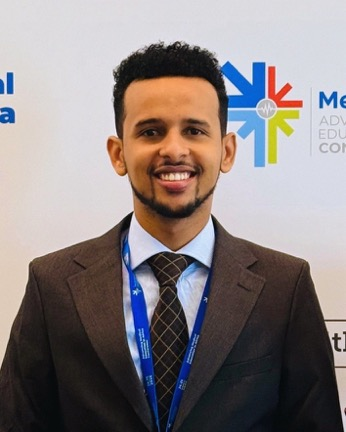
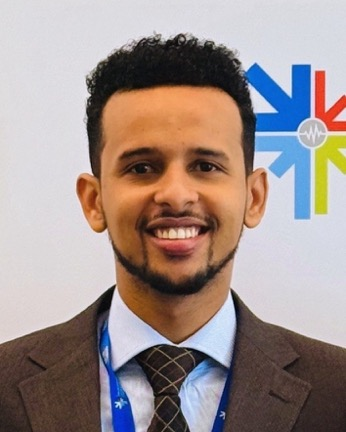
Board cards: wider spacing, brand blue roles, tighter photo crop

diff --git a/css/styles.css b/css/styles.css
@@ -522,7 +522,7 @@ tr:last-child td { border-bottom: 0; }
 .timeline li { display: grid; grid-template-columns: 72px minmax(0,1fr); gap: 20px; margin: 0; padding: 16px 0; border-top: 1px solid var(--line); }
 .timeline__year { font-weight: 600; color: var(--ink); font-variant-numeric: tabular-nums; }
 
-.people { display: grid; gap: 28px 20px; grid-template-columns: repeat(auto-fill, minmax(200px, 1fr)); margin-bottom: 1.2em; }
+.people { display: grid; gap: 36px clamp(28px, 4vw, 48px); grid-template-columns: repeat(auto-fill, minmax(240px, 290px)); margin-bottom: 1.2em; }
 .person { display: flex; flex-direction: column; }
 .person__photo { aspect-ratio: 4 / 5; border-radius: var(--radius); background: var(--surface); display: flex; align-items: center; justify-content: center; margin-bottom: 16px; overflow: hidden; color: var(--line-strong); }
 .person__photo svg { width: 40%; height: 40%; }
@@ -842,7 +842,7 @@ figure.portrait { margin: 0; }
 .cv__photo { margin: 0 0 24px; aspect-ratio: 4 / 5; border-radius: 24px; overflow: hidden; border: 1px solid var(--line); background: #fff; }
 .cv__photo img { width: 100%; height: 100%; object-fit: cover; object-position: center top; }
 .cv__name { font-size: clamp(1.8rem, 1.4rem + 1.2vw, 2.4rem); letter-spacing: -0.04em; line-height: 1.05; margin: 0 0 10px; }
-.cv__role { color: var(--red-600); font-weight: 600; margin: 0 0 6px; }
+.cv__role { color: var(--blue-600); font-weight: 600; margin: 0 0 6px; }
 .cv__org { color: var(--text); margin: 0 0 20px; line-height: 1.5; }
 .cv__links { list-style: none; margin: 0; padding: 18px 0 0; border-top: 1px solid var(--line); display: flex; gap: 24px; }
 .cv__links li { margin: 0; }
@@ -880,7 +880,7 @@ figure.portrait { margin: 0; }
 
 /* Board cards: tight name, role and link */
 .person__name { margin: 0; font-size: 1.15rem; letter-spacing: -0.015em; }
-.person__role { margin: 2px 0 0; font-size: 1.02rem; color: var(--text); }
+.person__role { margin: 2px 0 0; font-size: 1.02rem; font-weight: 500; color: var(--blue-600); }
 .person__bio { margin: 0; }
 .person__bio.mt-1 { margin-top: 10px; }
 @media (max-width: 760px) { .cv .pubs a { grid-template-columns: minmax(0, 1fr) 20px; } }

diff --git a/about.html b/about.html
@@ -15,7 +15,7 @@
 <link rel="preconnect" href="https://fonts.googleapis.com">
 <link rel="preconnect" href="https://fonts.gstatic.com" crossorigin>
 <link rel="stylesheet" href="https://fonts.googleapis.com/css2?family=Inter:opsz,wght@14..32,400..700&display=swap">
-<link rel="stylesheet" href="css/styles.css?v=3">
+<link rel="stylesheet" href="css/styles.css?v=5">
 <script src="js/main.js?v=3" defer></script>
 </head>
 <body>
@@ -179,7 +179,7 @@
             <p class="person__bio mt-1"><a class="text-link" href="president.html">Visit profile</a></p>
           </div>
           <div class="person">
-            <div class="person__photo"><img src="img/mohamed-mustaf-ahmed-sm.jpg" alt="Mohamed Mustaf Ahmed" width="346" height="432" loading="lazy"></div>
+            <div class="person__photo"><img src="img/mohamed-mustaf-ahmed-sm.jpg?v=2" alt="Mohamed Mustaf Ahmed" width="346" height="432" loading="lazy"></div>
             <p class="person__name">Mohamed Mustaf Ahmed</p>
             <p class="person__role">Data Scientist</p>
             <p class="person__bio mt-1"><a class="text-link" href="mohamed-mustaf-ahmed.html">Visit profile</a></p>

diff --git a/mohamed-mustaf-ahmed.html b/mohamed-mustaf-ahmed.html
@@ -15,7 +15,7 @@
 <link rel="preconnect" href="https://fonts.googleapis.com">
 <link rel="preconnect" href="https://fonts.gstatic.com" crossorigin>
 <link rel="stylesheet" href="https://fonts.googleapis.com/css2?family=Inter:opsz,wght@14..32,400..700&display=swap">
-<link rel="stylesheet" href="css/styles.css?v=3">
+<link rel="stylesheet" href="css/styles.css?v=5">
 <script src="js/main.js?v=3" defer></script>
 </head>
 <body>
@@ -96,7 +96,7 @@
           <li aria-current="page">Data Scientist</li>
         </ol>
       </nav>
-      <figure class="cv__photo"><img src="img/mohamed-mustaf-ahmed.jpg" alt="Mohamed Mustaf Ahmed" width="708" height="885" fetchpriority="high"></figure>
+      <figure class="cv__photo"><img src="img/mohamed-mustaf-ahmed.jpg?v=2" alt="Mohamed Mustaf Ahmed" width="708" height="885" fetchpriority="high"></figure>
       <h1 class="cv__name">Mohamed Mustaf Ahmed</h1>
       <p class="cv__role">Data Scientist, SHHA</p>
       <p class="cv__org">Digital Health Researcher, SIMAD Institute for Global Health, SIMAD University, Mogadishu</p>

diff --git a/404.html b/404.html
@@ -15,7 +15,7 @@
 <link rel="preconnect" href="https://fonts.googleapis.com">
 <link rel="preconnect" href="https://fonts.gstatic.com" crossorigin>
 <link rel="stylesheet" href="https://fonts.googleapis.com/css2?family=Inter:opsz,wght@14..32,400..700&display=swap">
-<link rel="stylesheet" href="css/styles.css?v=3">
+<link rel="stylesheet" href="css/styles.css?v=5">
 <script src="js/main.js?v=3" defer></script>
 </head>
 <body>

diff --git a/blood-disorders.html b/blood-disorders.html
@@ -15,7 +15,7 @@
 <link rel="preconnect" href="https://fonts.googleapis.com">
 <link rel="preconnect" href="https://fonts.gstatic.com" crossorigin>
 <link rel="stylesheet" href="https://fonts.googleapis.com/css2?family=Inter:opsz,wght@14..32,400..700&display=swap">
-<link rel="stylesheet" href="css/styles.css?v=3">
+<link rel="stylesheet" href="css/styles.css?v=5">
 <script src="js/main.js?v=3" defer></script>
 </head>
 <body>

diff --git a/contact.html b/contact.html
@@ -15,7 +15,7 @@
 <link rel="preconnect" href="https://fonts.googleapis.com">
 <link rel="preconnect" href="https://fonts.gstatic.com" crossorigin>
 <link rel="stylesheet" href="https://fonts.googleapis.com/css2?family=Inter:opsz,wght@14..32,400..700&display=swap">
-<link rel="stylesheet" href="css/styles.css?v=3">
+<link rel="stylesheet" href="css/styles.css?v=5">
 <script src="js/main.js?v=3" defer></script>
 </head>
 <body>

diff --git a/get-help.html b/get-help.html
@@ -15,7 +15,7 @@
 <link rel="preconnect" href="https://fonts.googleapis.com">
 <link rel="preconnect" href="https://fonts.gstatic.com" crossorigin>
 <link rel="stylesheet" href="https://fonts.googleapis.com/css2?family=Inter:opsz,wght@14..32,400..700&display=swap">
-<link rel="stylesheet" href="css/styles.css?v=3">
+<link rel="stylesheet" href="css/styles.css?v=5">
 <script src="js/main.js?v=3" defer></script>
 </head>
 <body>

diff --git a/get-involved.html b/get-involved.html
@@ -15,7 +15,7 @@
 <link rel="preconnect" href="https://fonts.googleapis.com">
 <link rel="preconnect" href="https://fonts.gstatic.com" crossorigin>
 <link rel="stylesheet" href="https://fonts.googleapis.com/css2?family=Inter:opsz,wght@14..32,400..700&display=swap">
-<link rel="stylesheet" href="css/styles.css?v=3">
+<link rel="stylesheet" href="css/styles.css?v=5">
 <script src="js/main.js?v=3" defer></script>
 </head>
 <body>

diff --git a/haemophilia.html b/haemophilia.html
@@ -15,7 +15,7 @@
 <link rel="preconnect" href="https://fonts.googleapis.com">
 <link rel="preconnect" href="https://fonts.gstatic.com" crossorigin>
 <link rel="stylesheet" href="https://fonts.googleapis.com/css2?family=Inter:opsz,wght@14..32,400..700&display=swap">
-<link rel="stylesheet" href="css/styles.css?v=3">
+<link rel="stylesheet" href="css/styles.css?v=5">
 <script src="js/main.js?v=3" defer></script>
 </head>
 <body>

diff --git a/health-workers.html b/health-workers.html
@@ -15,7 +15,7 @@
 <link rel="preconnect" href="https://fonts.googleapis.com">
 <link rel="preconnect" href="https://fonts.gstatic.com" crossorigin>
 <link rel="stylesheet" href="https://fonts.googleapis.com/css2?family=Inter:opsz,wght@14..32,400..700&display=swap">
-<link rel="stylesheet" href="css/styles.css?v=3">
+<link rel="stylesheet" href="css/styles.css?v=5">
 <script src="js/main.js?v=3" defer></script>
 </head>
 <body>

diff --git a/index.html b/index.html
@@ -15,7 +15,7 @@
 <link rel="preconnect" href="https://fonts.googleapis.com">
 <link rel="preconnect" href="https://fonts.gstatic.com" crossorigin>
 <link rel="stylesheet" href="https://fonts.googleapis.com/css2?family=Inter:opsz,wght@14..32,400..700&display=swap">
-<link rel="stylesheet" href="css/styles.css?v=3">
+<link rel="stylesheet" href="css/styles.css?v=5">
 <script src="js/main.js?v=3" defer></script>
 </head>
 <body>

diff --git a/inheritance.html b/inheritance.html
@@ -15,7 +15,7 @@
 <link rel="preconnect" href="https://fonts.googleapis.com">
 <link rel="preconnect" href="https://fonts.gstatic.com" crossorigin>
 <link rel="stylesheet" href="https://fonts.googleapis.com/css2?family=Inter:opsz,wght@14..32,400..700&display=swap">
-<link rel="stylesheet" href="css/styles.css?v=3">
+<link rel="stylesheet" href="css/styles.css?v=5">
 <script src="js/main.js?v=3" defer></script>
 </head>
 <body>
